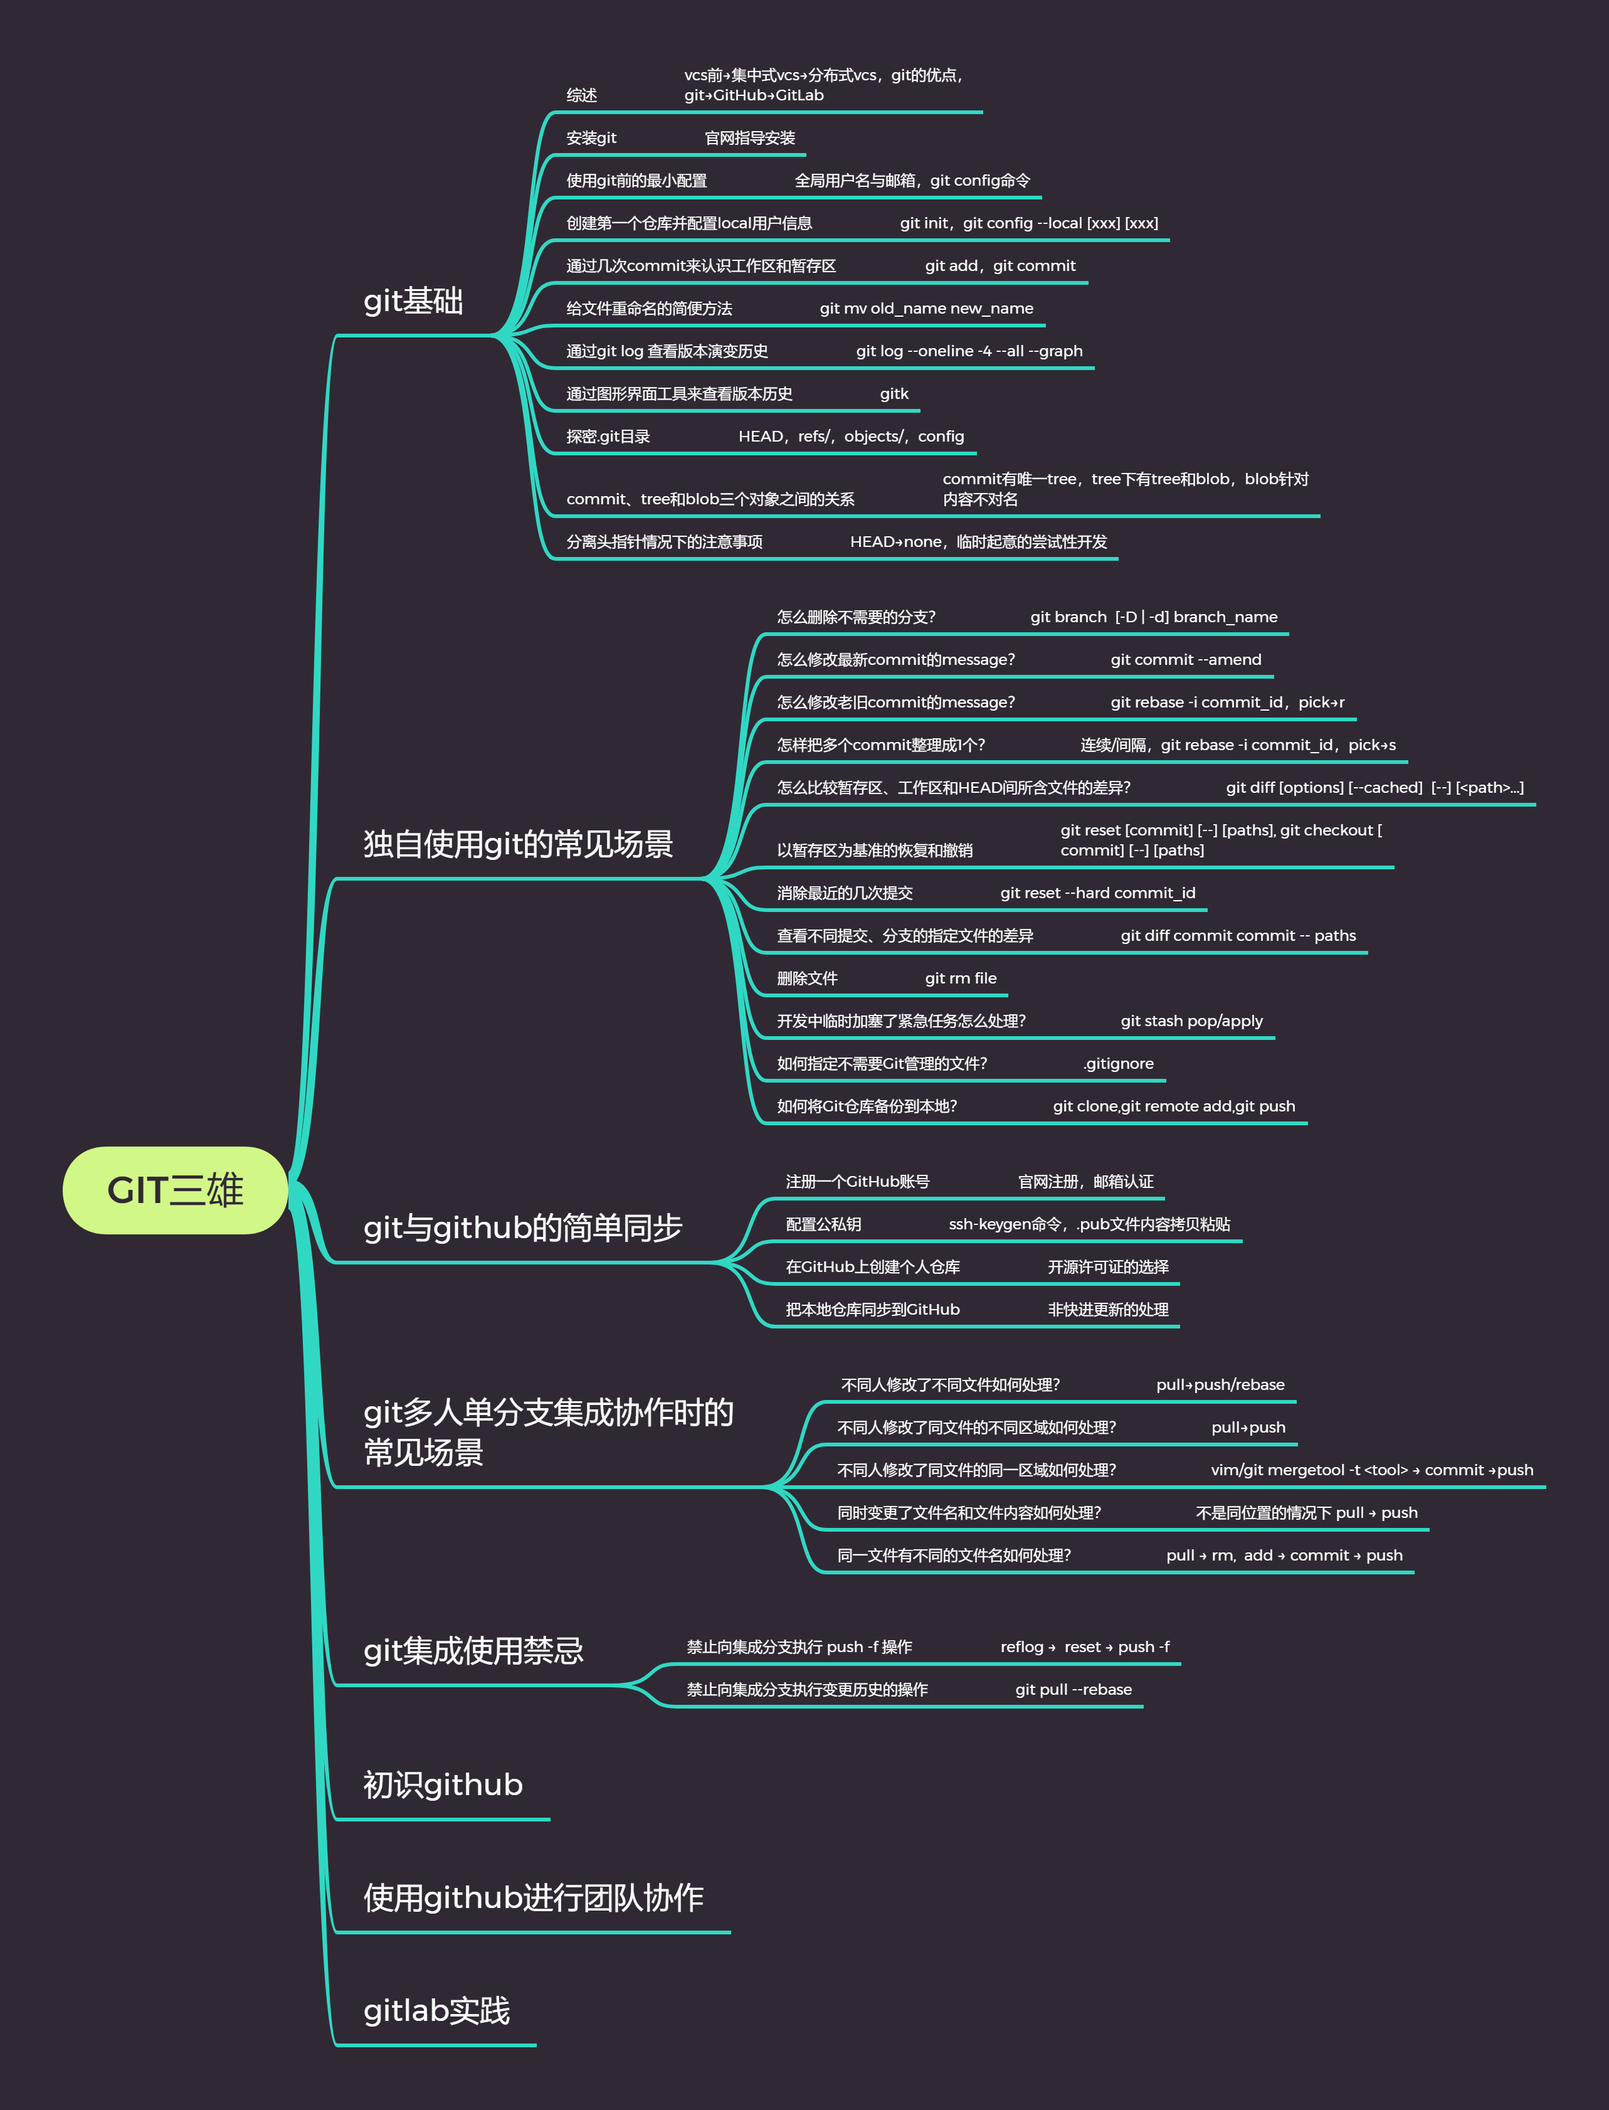
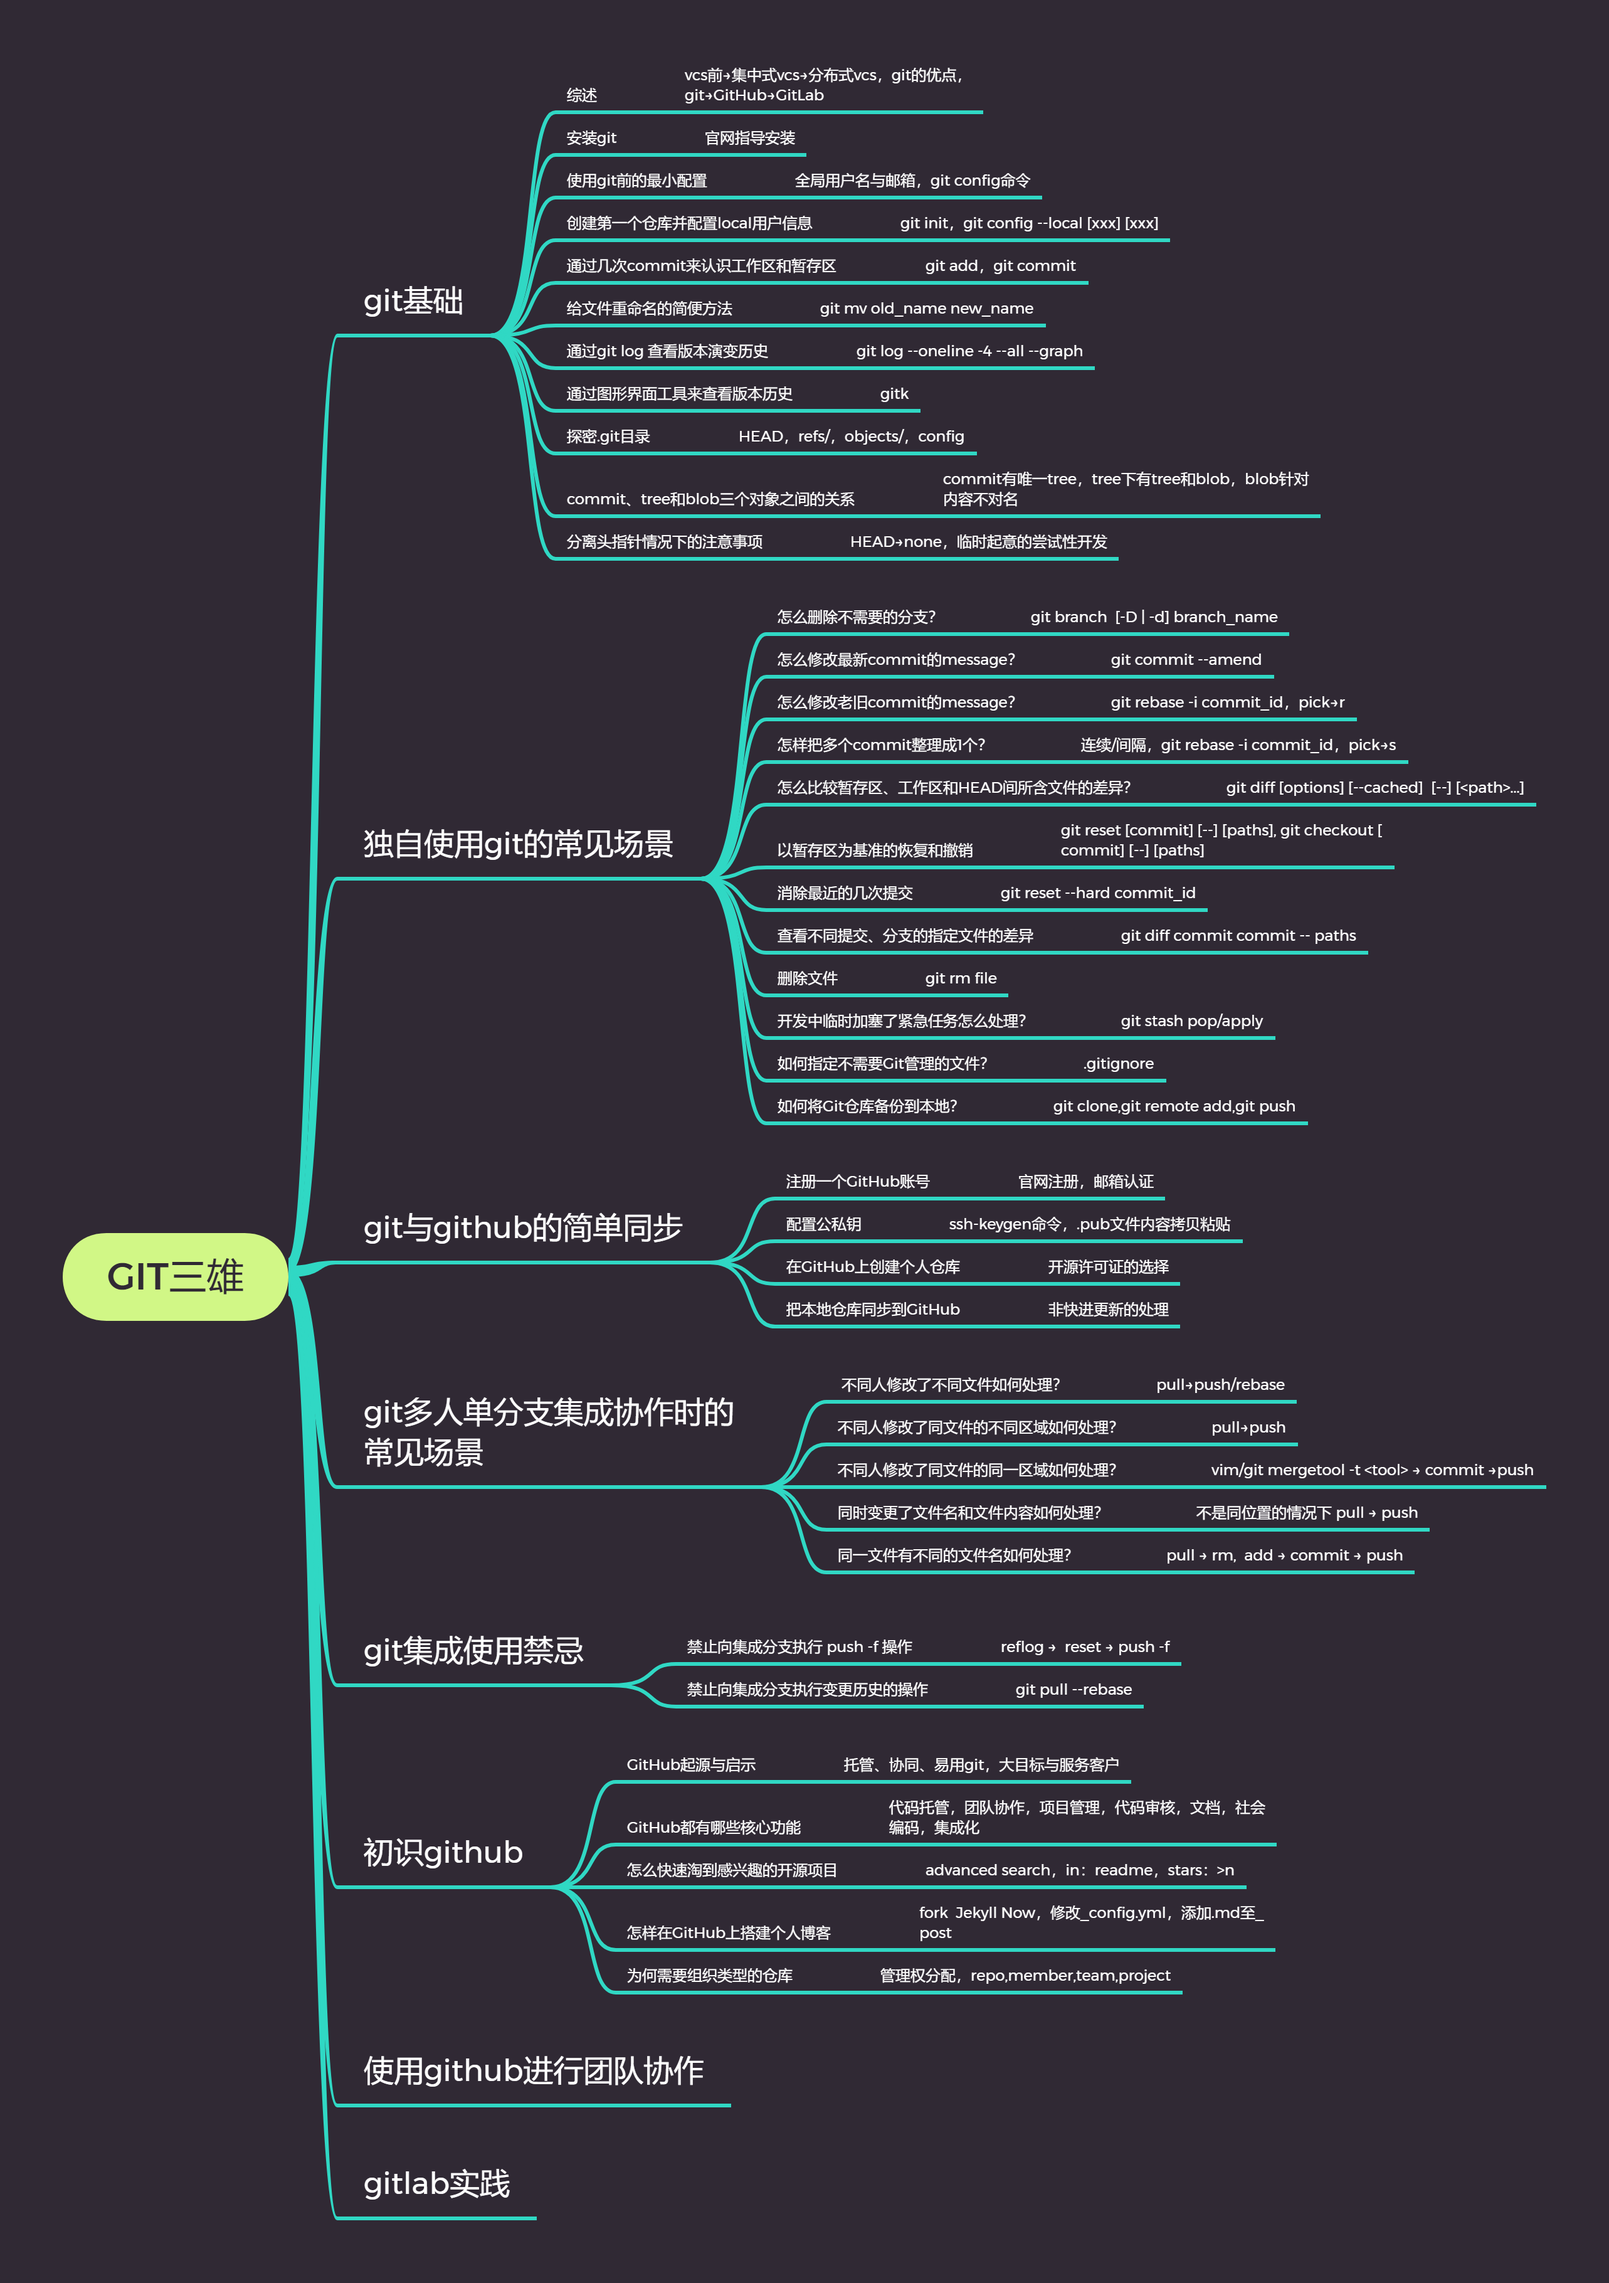
更新至““初识GitHub”

Changed region(s): [[0.0312, 0.0312, 0.9353, 0.9988], [0.1871, 0.1561, 0.2182, 0.1873]]

diff --git a/README.md b/README.md
@@ -1,9 +1,10 @@
-# Git、GitHub和GitLab的入门与实践
+# Git、GitHub和GitLab入门与实践
 
 * [git 基础](http://note.youdao.com/noteshare?id=59f701aa9fc3817e7615a84a7db18922&sub=2DB078ED5E1A46B797A3FF4550E20E46)
 * [独自使用git的常见场景](http://note.youdao.com/noteshare?id=cd58d56a9ce95a646bbfe0aad66e0365&sub=E269E4EF919348BF9602F43CAC3E5113)
 * [git和GitHub的简单同步](http://note.youdao.com/noteshare?id=c17a673902a5e3bae5eea67ac4a2bd47&sub=403A34290A25491BB433C647C6CAB36D)
 * [git多人单分支集成协作时的常见场景](http://note.youdao.com/noteshare?id=75cf396d8cbe415b66c61b4e23ad30aa&sub=483A97E709D443F380B60F96F8A2D622)
 * [git集成使用禁忌](http://note.youdao.com/noteshare?id=de1b80915bc531610df0e5b5aa06b2e0&sub=AC70E191DED146CE957E59C80CB61F8F)
+* [初始GitHub](http://note.youdao.com/noteshare?id=7e13d0f29e5e4f8ebdf70959a0a386c5&sub=8F05EE9484CA44089B731D443A7A315C)
 
 ![tutorial_overview](./images/tutorial_overview.png)
